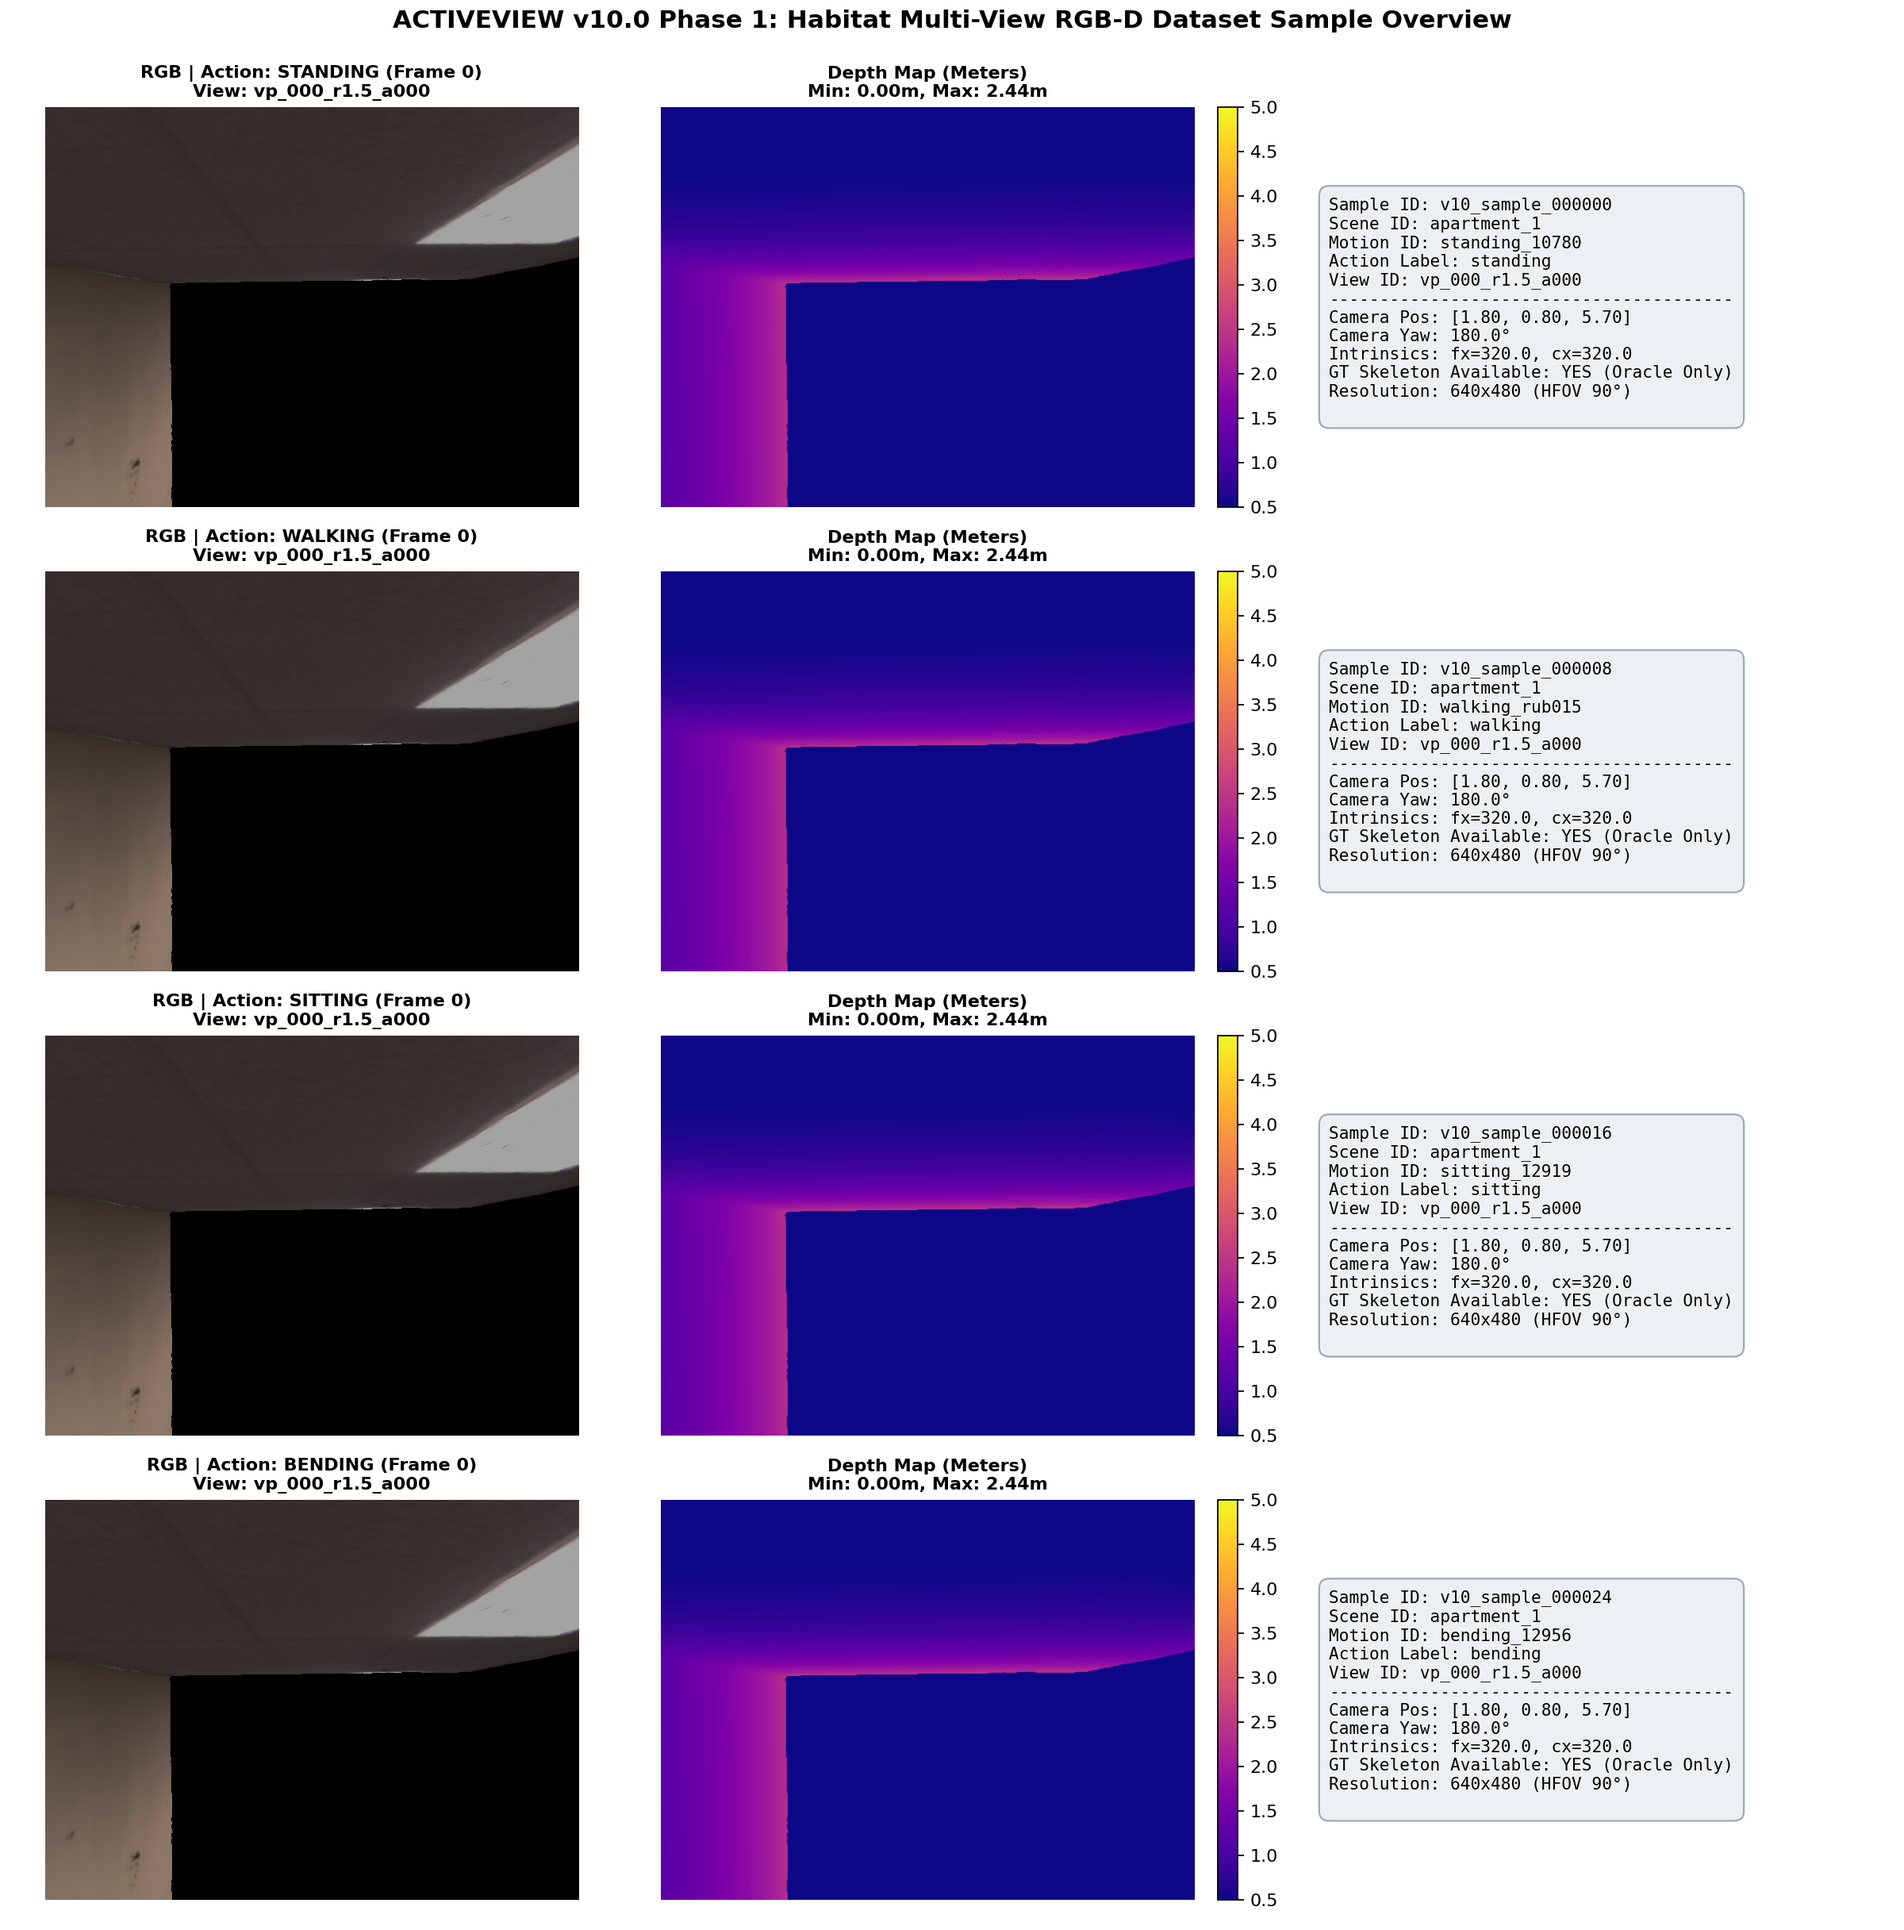
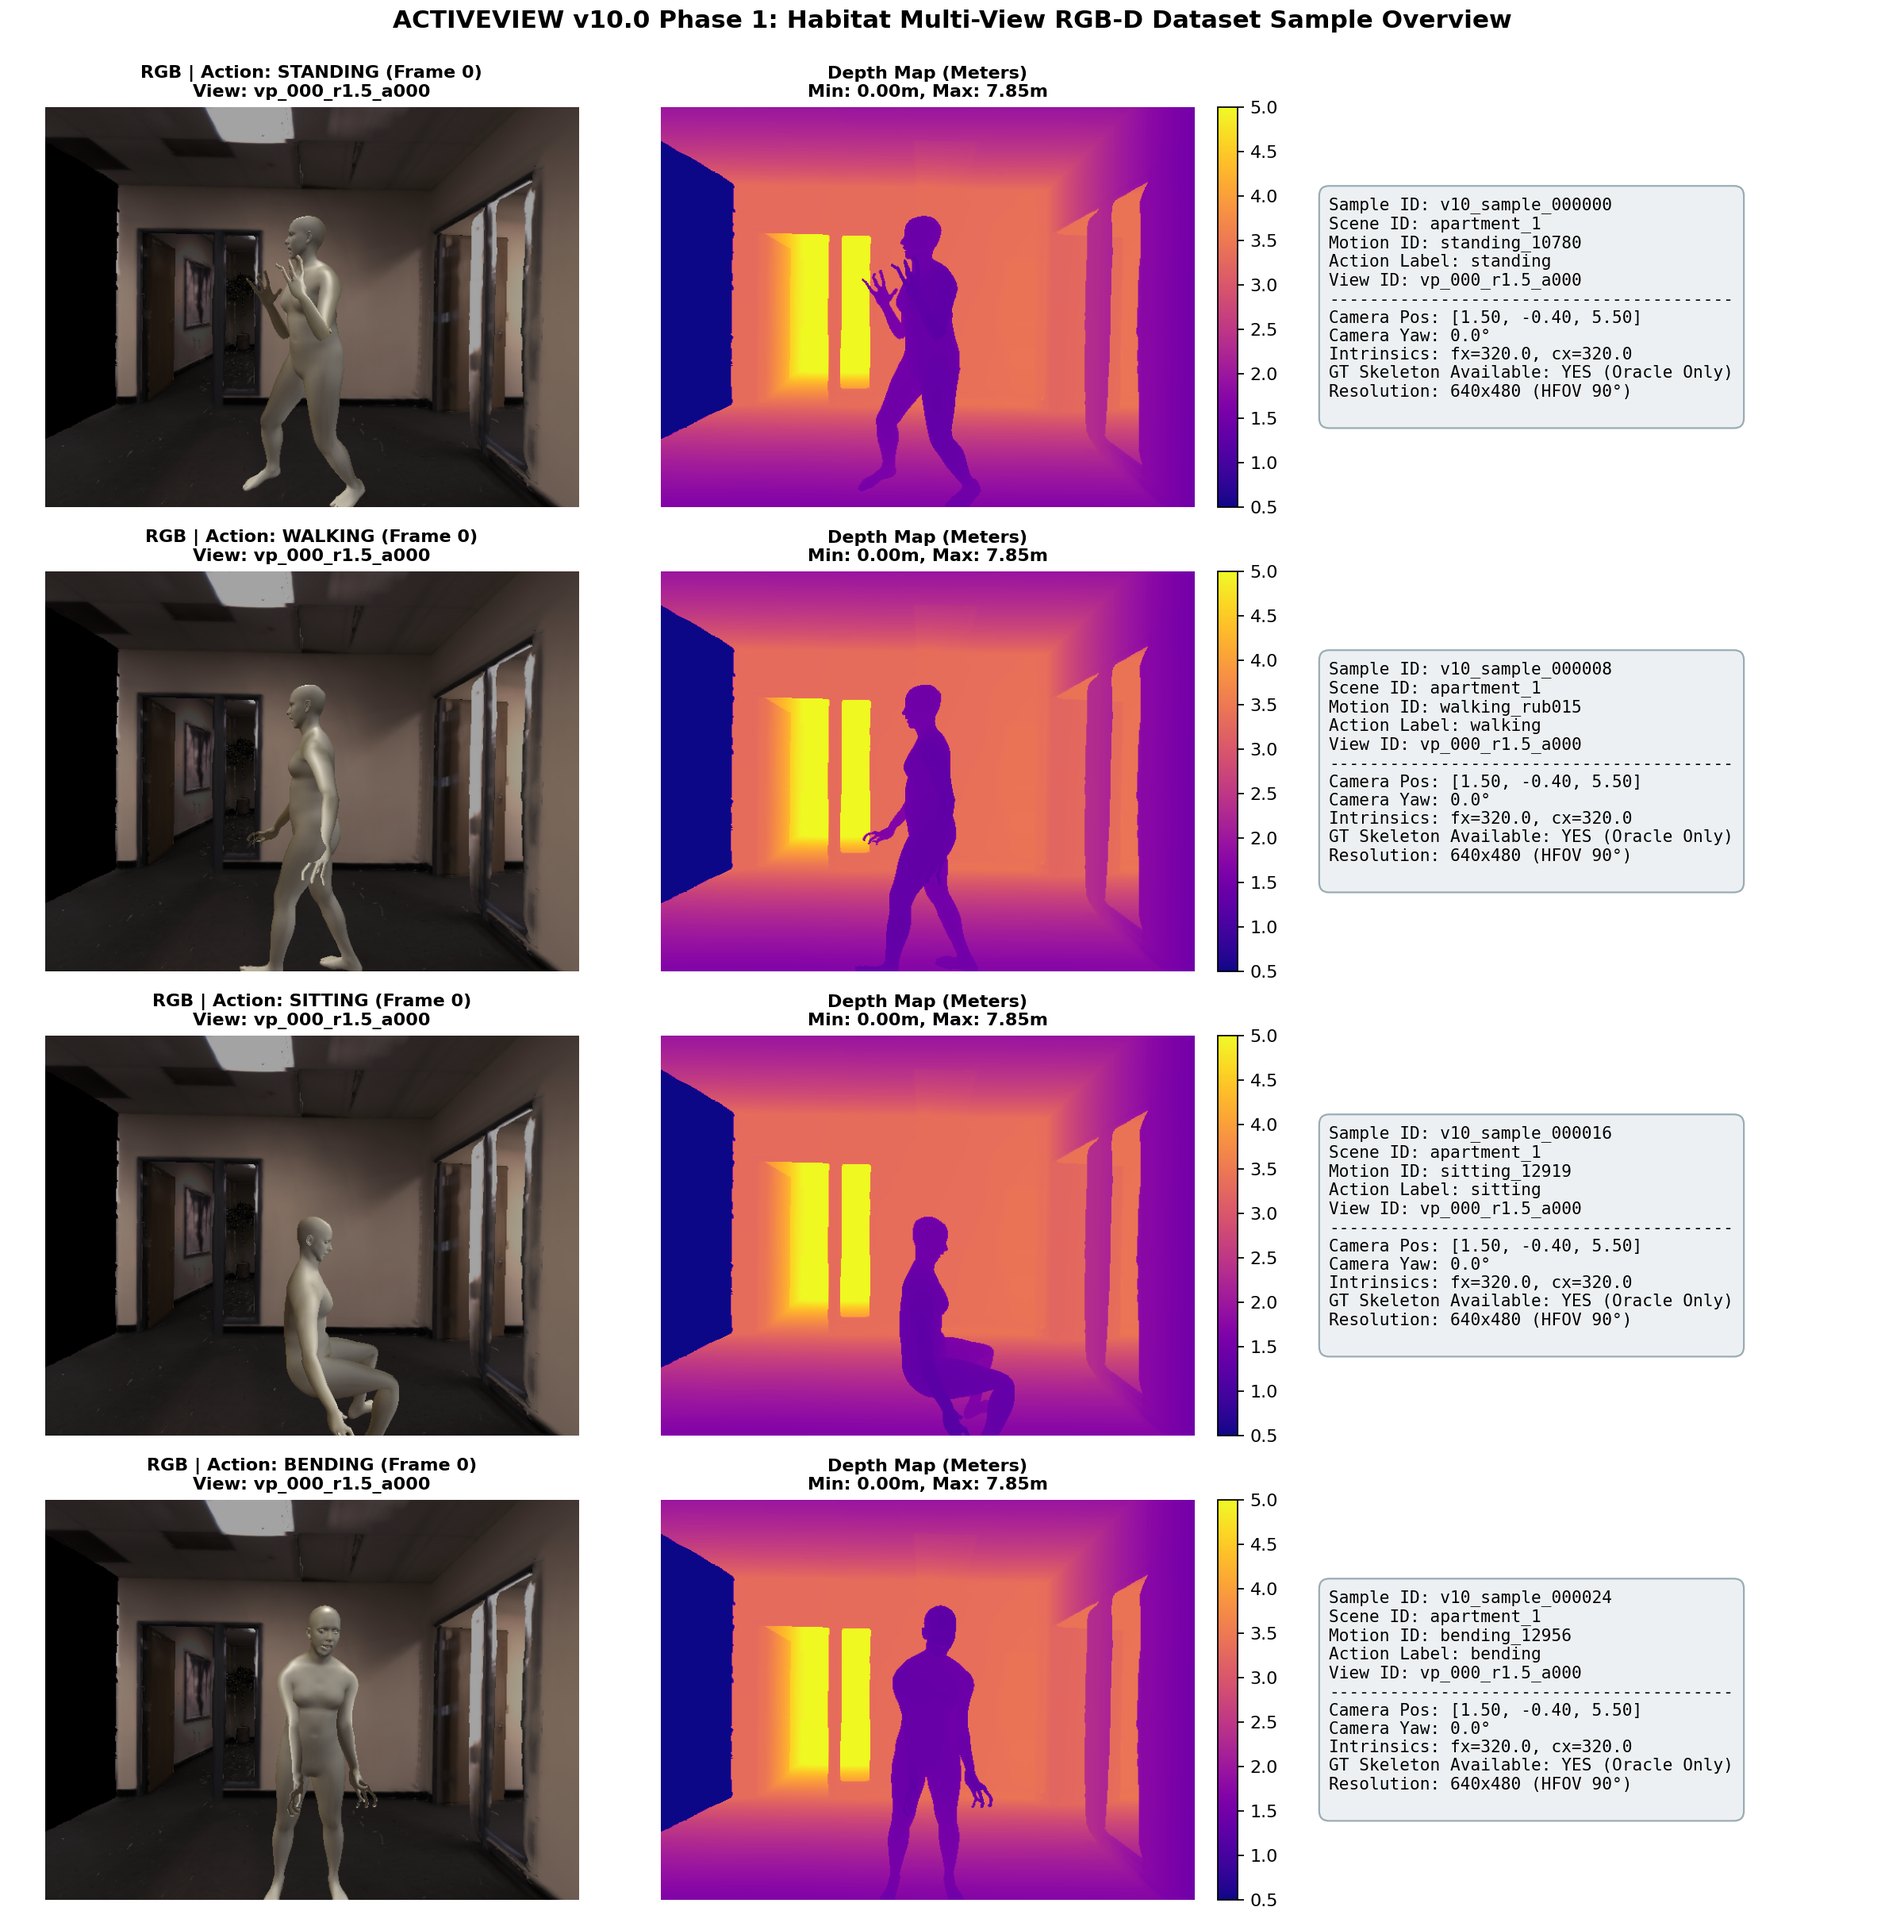
fix(v10.0): correct camera height and look-at yaw for human observation rendering

diff --git a/ea_avs_mvp_v10/viewpoint/candidate_generator.py b/ea_avs_mvp_v10/viewpoint/candidate_generator.py
@@ -4,9 +4,9 @@
 
 职责：
     1. 围绕人体中心以极坐标网格采样生成多距离、多方位的候选观察视角；
-    2. 计算视点世界空间坐标与相机对准人体的注视偏航角；
+    2. 计算机器人底盘世界空间坐标 [x, ground_height, z] 与相机正对人体的偏航角；
     3. 输出 CandidateViewpointV10 列表；
-    4. 严格禁止在此处实现任何视点选择策略或评分策略 (Phase 1 仅负责多视点数据采样与观测生成)。
+    4. 严格遵守 Habitat 坐标约定 (Agent 前向为 -Z，偏航角为 atan2(dx, -dz))。
 """
 
 import math
@@ -50,7 +50,6 @@ class CandidateViewpointGeneratorV10:
         hy = float(human_position[1])
         hz = float(human_position[2])
 
-        cam_y = self.ground_height + self.camera_height
         candidates: List[CandidateViewpointV10] = []
 
         angle_step = 360.0 / float(self.num_angles)
@@ -63,15 +62,17 @@ class CandidateViewpointGeneratorV10:
                 world_angle_deg = (human_yaw_deg + rel_angle_deg) % 360.0
                 world_angle_rad = math.radians(world_angle_deg)
 
-                # 相机位置 (以人体为中心环绕)
-                cx = hx + r * math.sin(world_angle_rad)
-                cz = hz + r * math.cos(world_angle_rad)
+                # 机器人底盘位置 (以人体为中心在 X-Z 平面环绕，Y 坐标为地面高度)
+                rx = hx + r * math.sin(world_angle_rad)
+                ry = float(self.ground_height)
+                rz = hz + r * math.cos(world_angle_rad)
 
-                # 相机朝向人体注视角 (从相机看向人体)
-                dx = hx - cx
-                dz = hz - cz
-                gaze_yaw_rad = math.atan2(dx, dz)
-                gaze_yaw_deg = math.degrees(gaze_yaw_rad) % 360.0
+                # 计算机器人面向人体的注视偏航角
+                # Habitat 坐标系中，Agent 默认朝向为 -Z，偏角为 atan2(dx, -dz)
+                dx = hx - rx
+                dz = hz - rz
+                gaze_yaw_rad = math.atan2(dx, -dz)
+                gaze_yaw_deg = (math.degrees(gaze_yaw_rad) + 360.0) % 360.0
 
                 vp_id = f"vp_{vp_idx:03d}_r{r:.1f}_a{int(rel_angle_deg):03d}"
                 vp_idx += 1
@@ -79,11 +80,11 @@ class CandidateViewpointGeneratorV10:
                 candidates.append(
                     CandidateViewpointV10(
                         viewpoint_id=vp_id,
-                        radius=r,
-                        angle_deg=rel_angle_deg,
-                        height=self.camera_height,
-                        position=[cx, cam_y, cz],
-                        yaw_deg=gaze_yaw_deg,
+                        radius=float(r),
+                        angle_deg=float(rel_angle_deg),
+                        height=float(self.camera_height),
+                        position=[rx, ry, rz],
+                        yaw_deg=float(gaze_yaw_deg),
                         feasible=True,
                     )
                 )

diff --git a/ea_avs_mvp_v10/dataset/v10_dataset_generator.py b/ea_avs_mvp_v10/dataset/v10_dataset_generator.py
@@ -107,17 +107,23 @@ class V10DatasetGenerator:
         robot = RobotAgent(sim, agent_id=0)
         capture = RGBDCapture(sim, sensor_cfg=self.config.camera, agent_id=0)
 
-        h_pos = human_position or self.config.human.get("default_position", [1.8, -1.60, 4.2])
+        h_pos = human_position or self.config.human.get("default_position", [1.5, -1.60, 4.0])
         human_yaw_rad = math.radians(human_yaw_deg)
         humanoid.set_base_pose(h_pos, yaw_rad=human_yaw_rad)
 
         candidates = self.vp_gen.generate_candidates(h_pos, human_yaw_deg=human_yaw_deg)
-        if max_viewpoints and len(candidates) > max_viewpoints:
+
+        # 过滤可导航视点 (排除墙体/外部碰撞视点)
+        navigable_candidates = [vp for vp in candidates if env_adapter.is_navigable(vp.position)]
+        if not navigable_candidates:
+            navigable_candidates = candidates
+
+        if max_viewpoints and len(navigable_candidates) > max_viewpoints:
             # 均匀下采样候选视点
-            indices = np.linspace(0, len(candidates) - 1, max_viewpoints, dtype=int)
-            sampled_candidates = [candidates[i] for i in indices]
+            indices = np.linspace(0, len(navigable_candidates) - 1, max_viewpoints, dtype=int)
+            sampled_candidates = [navigable_candidates[i] for i in indices]
         else:
-            sampled_candidates = candidates
+            sampled_candidates = navigable_candidates
 
         target_motions = motion_ids or self.motion_mgr.list_available_motions()[:6]
         all_samples: List[V10Sample] = []

diff --git a/ea_avs_mvp_v10/tests/unit/test_candidate_generator.py b/ea_avs_mvp_v10/tests/unit/test_candidate_generator.py
@@ -27,8 +27,8 @@ class TestCandidateGenerator(unittest.TestCase):
             self.assertIn(vp.radius, [1.5, 2.0, 2.5])
             self.assertAlmostEqual(vp.height, 1.20)
             self.assertEqual(len(vp.position), 3)
-            # y 坐标为 ground_height + camera_height = -1.60 + 1.20 = -0.40
-            self.assertAlmostEqual(vp.position[1], -0.40)
+            # y 坐标为 ground_height = -1.60
+            self.assertAlmostEqual(vp.position[1], -1.60)
 
 
 if __name__ == "__main__":

diff --git a/ea_avs_mvp_v10/scripts/run_v10_phase1_demo.py b/ea_avs_mvp_v10/scripts/run_v10_phase1_demo.py
@@ -58,7 +58,7 @@ def run_phase1_demo():
     # 2. 执行多视角 RGB-D 采集
     samples = generator.generate_motion_dataset(
         motion_ids=selected_motions,
-        human_position=[1.8, -1.60, 4.2],
+        human_position=[1.5, -1.60, 4.0],
         human_yaw_deg=0.0,
         frame_step=15,
         max_frames_per_motion=2,

diff --git a/ea_avs_mvp_v10/examples/v10_phase1_demo/README.md b/ea_avs_mvp_v10/examples/v10_phase1_demo/README.md
@@ -37,9 +37,9 @@ datasets/v10/
   "frame_idx": 0,
   "view_id": "vp_000_r1.5_a000",
   "camera_pose": {
-    "position": [1.7999999523162842, 0.8000000715255737, 5.699999809265137],
-    "rotation_quat": [0.0, 1.0, 0.0, 6.123234262925839e-17],
-    "yaw_deg": 180.0,
+    "position": [1.5, -0.3999999761581421, 5.5],
+    "rotation_quat": [0.0, 0.0, 0.0, 1.0],
+    "yaw_deg": 0.0,
     "intrinsics": {
       "width": 640,
       "height": 480,
